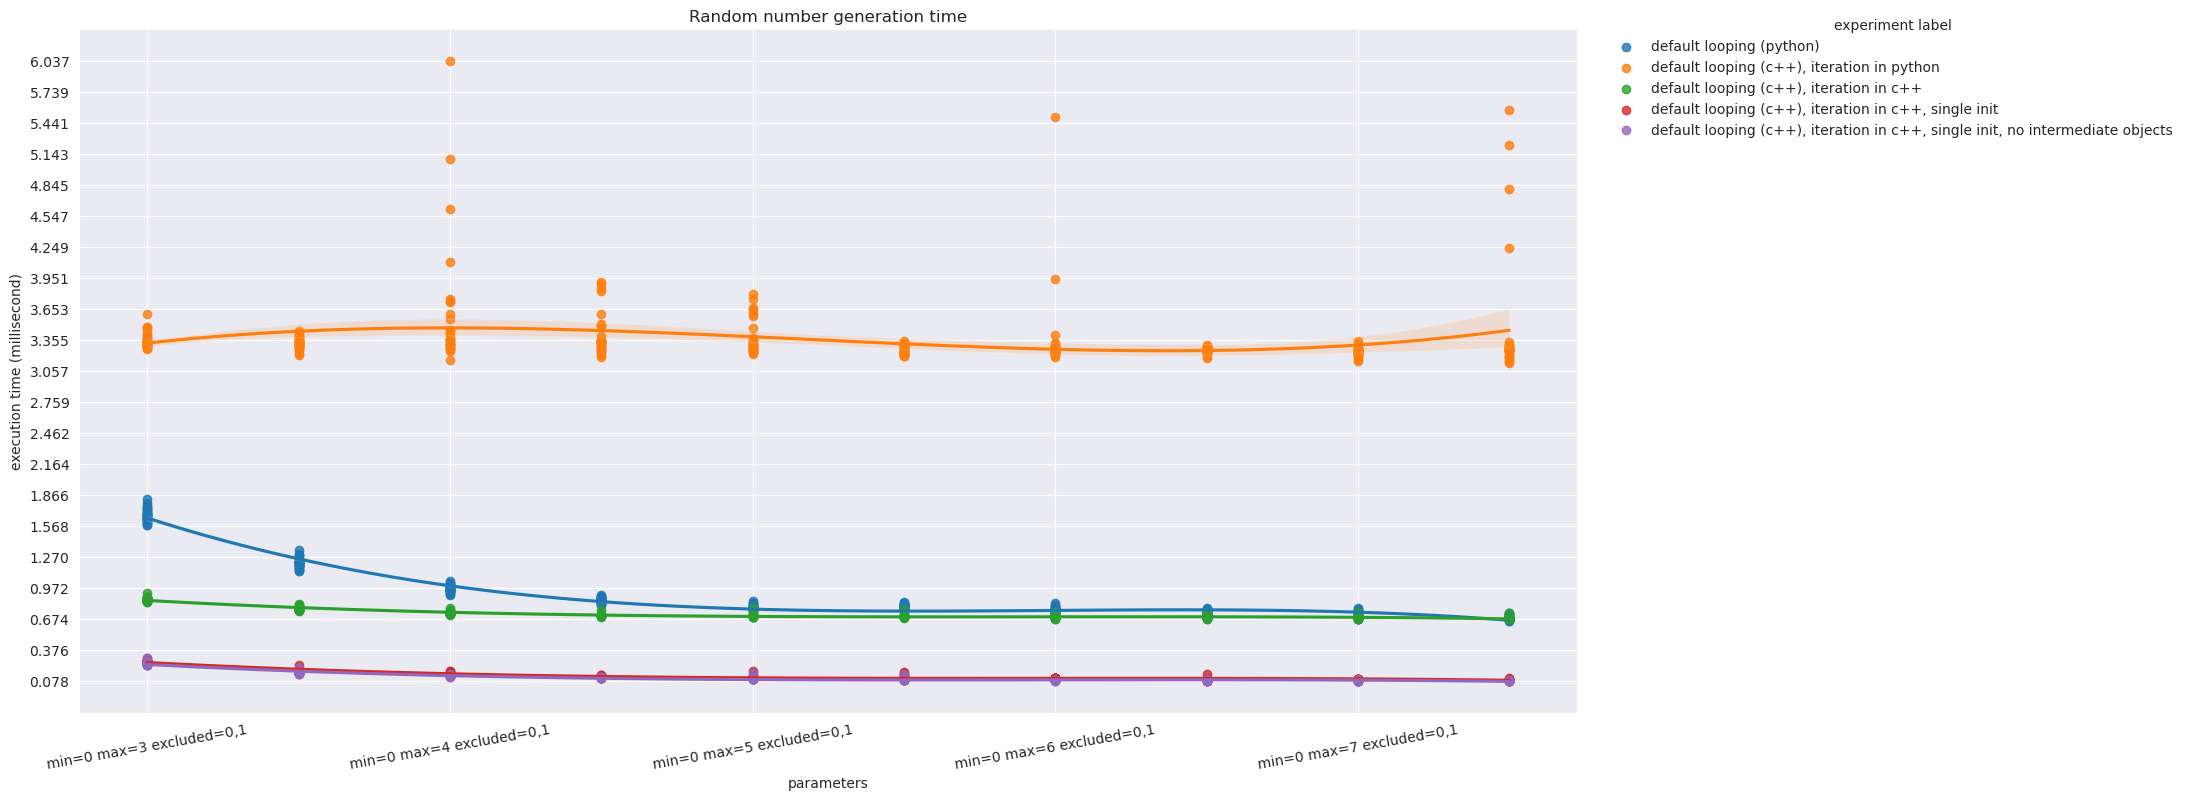
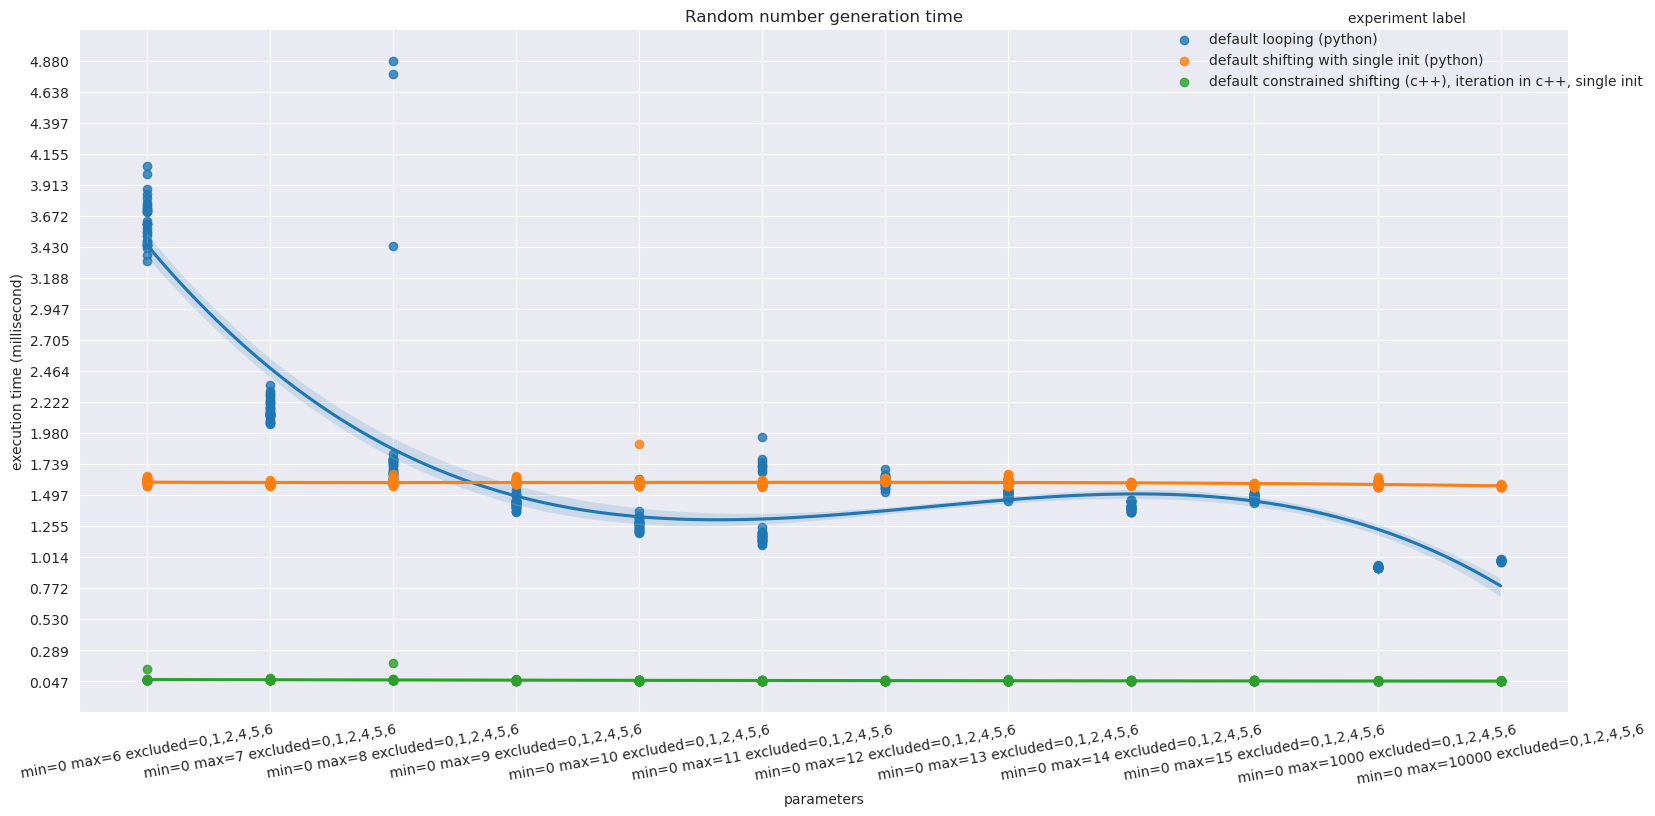
Added outliers detection and elimination, implemented p-value evaluation

diff --git a/errand/__main__.py b/errand/__main__.py
@@ -1,6 +1,7 @@
 import os
 import time
 from enum import Enum
+import scipy.stats
 
 from random import randint
 from typing import Tuple
@@ -38,7 +39,7 @@ def main():
 @option('--cpp', '-c', type = bool, is_flag = True)
 def randomize(seed: int, cpp: bool):
 
-    grid = ParameterGrid.from_range((0, ), (2, 3, 4, 5, 6, 7, 8, 9, 10, 1000), ((0, 2), ))
+    grid = ParameterGrid.from_range((0, ), (6, 7, 8, 9, 10, 11, 12, 13, 14, 15, 1000, 10000), ((0, 1, 2, 4, 5, 6), ))
 
     # for parameter in grid.parameters:
     #     print(parameter)
@@ -104,16 +105,16 @@ def randomize(seed: int, cpp: bool):
                 # #     'default looping (c++), iteration in c++, multiple inits',
                 # #     RANDEER_LIBRARY_PATH, SamplingMethod.LOOPING, SamplingApproach.DEFAULT, IterationMethod.CPP, single_init = False, using_objects = True
                 # # ),
+                RandeerExperiment(
+                    default_looping := 'default looping (c++), iteration in c++, single init, no intermediate objects',
+                    RANDEER_LIBRARY_PATH, SamplingMethod.LOOPING, SamplingApproach.DEFAULT, IterationMethod.CPP, single_init = True, using_objects = False
+                ),
                 # RandeerExperiment(
-                #     'default looping (c++), iteration in c++, single init, no intermediate objects',
-                #     RANDEER_LIBRARY_PATH, SamplingMethod.LOOPING, SamplingApproach.DEFAULT, IterationMethod.CPP, single_init = True, using_objects = False
+                #     'default shifting (c++), iteration in c++, single init',
+                #     RANDEER_LIBRARY_PATH, SamplingMethod.SHIFTING, SamplingApproach.DEFAULT, IterationMethod.CPP, single_init = True, using_objects = True
                 # ),
                 RandeerExperiment(
-                    'default shifting (c++), iteration in c++, single init',
-                    RANDEER_LIBRARY_PATH, SamplingMethod.SHIFTING, SamplingApproach.DEFAULT, IterationMethod.CPP, single_init = True, using_objects = True
-                ),
-                RandeerExperiment(
-                    'default constrained shifting (c++), iteration in c++, single init',
+                    default_shifting := 'default constrained shifting (c++), iteration in c++, single init',
                     RANDEER_LIBRARY_PATH, SamplingMethod.CONSTRAINED_SHIFTING, SamplingApproach.DEFAULT, IterationMethod.CPP, single_init = True, using_objects = True
                 ),
                 # RandeerExperiment(
@@ -128,16 +129,20 @@ def randomize(seed: int, cpp: bool):
         evaluator = Evaluator(
             experiments = (
                 PythonExperiment(
-                    'default looping (python)',
+                    default_looping := 'default looping (python)',
                     SamplingMethod.LOOPING, SamplingApproach.DEFAULT
                 ),
+                # PythonExperiment(
+                #     'default shifting (python)',
+                #     SamplingMethod.SHIFTING, SamplingApproach.DEFAULT
+                # ),
                 PythonExperiment(
-                    'default shifting (python)',
-                    SamplingMethod.SHIFTING, SamplingApproach.DEFAULT
-                ),
-                PythonExperiment(
-                    'default shifting with single init (python)',
+                    default_shifting := 'default shifting with single init (python)',
                     SamplingMethod.SHIFTING, SamplingApproach.DEFAULT, single_init = True
+                ),
+                RandeerExperiment(
+                    default_shifting_cpp := 'default constrained shifting (c++), iteration in c++, single init',
+                    RANDEER_LIBRARY_PATH, SamplingMethod.CONSTRAINED_SHIFTING, SamplingApproach.DEFAULT, IterationMethod.CPP, single_init = True, using_objects = True
                 ),
                 # RandeerExperiment(
                 #     'default looping (c++), iteration in python',
@@ -167,6 +172,23 @@ def randomize(seed: int, cpp: bool):
 
     # evaluator.evaluate(n = 100000, min_ = 10, max_ = 20, excluded = (11, 12))
     df, plot = evaluator.evaluate(n = 1000, grid = grid, unit = Unit.MILLISECOND)
+
+    numerator = df[(default_looping, 'mean')].sub(df[(default_shifting, 'mean')])
+    denominator = df[(default_looping, 'std')].pow(2).divide(df[(default_looping, 'sample size')]).add(
+        df[(default_shifting, 'std')].pow(2).divide(df[(default_shifting, 'sample size')])
+    ).pow(0.5)
+
+    df['t-score'] = numerator.divide(denominator)
+
+    # df.apply(lambda x: print(x.loc[[default_looping]]), axis = 1)
+    df['p-value'] = p_value = df.apply(lambda x: scipy.stats.t.sf(abs(x.at['t-score'].iloc[0]), df = int(x.loc[[[default_looping, 'sample size']]].iloc[0]) - 1) * 2, axis = 1)
+    # print(p_values)
+
+    df['is significant'] = p_value.le(0.05)
+
+    shifting_mul = df[(default_shifting, 'mean')].divide(df[(default_shifting_cpp, 'mean')])
+
+    print(shifting_mul.mean(), shifting_mul.std())
 
     print(df)
 

diff --git a/errand/Evaluator.py b/errand/Evaluator.py
@@ -10,6 +10,21 @@ from .ParameterGrid import ParameterGrid
 from .Unit import Unit
 
 
+def reject_outliers(data, m = 2.):
+    d = np.abs(data - np.median(data))
+    mdev = np.median(d)
+    s = d / mdev if mdev else np.zero(len(d))
+    return data[s < m]
+
+
+def drop_outliers(x, y, z):
+    y_median = np.median(y)
+
+    for x_element, y_element, z_element in zip(x, y, z):
+        if np.abs(y_element - y_median) / y_median < 20:
+            yield x_element, y_element, z_element
+
+
 class Evaluator:
     def __init__(self, experiments: Tuple[Experiment], n_repetitions: int = 1, seeds: Tuple[int] = None):
         self.experiments = experiments
@@ -18,6 +33,17 @@ class Evaluator:
 
     def visualize(self, x: Tuple[int], y: Tuple[float], label: Tuple[str], unit: Unit, xlabels: Tuple[str]):
         sns.set_style('darkgrid')
+
+        x, y, label = zip(*drop_outliers(x, y, label))
+
+        # y_median = np.median(y)
+
+        # for x_element, y_element in zip(x, y):
+        #     if np.abs(y_element - y_median) / y_median < 2:
+        #         yield x_element, y_element
+        # dd
+
+        # print(len(x), len(y), len(label))
 
         plot = sns.lmplot(DataFrame({'x': x, 'y': y, 'experiment label': label}), x = 'x', y = 'y', hue = 'experiment label', order = 3, ci = 95)
 
@@ -57,11 +83,13 @@ class Evaluator:
             means = []
             stds = []
             results = []
+            sample_sizes = []
             # x = []
             for parameter in grid:
                 result = experiment.run(n, parameter.min_, parameter.max_, parameter.excluded, self.n_repetitions, self.seeds, unit)
                 means.append(np.mean(result))
                 stds.append(np.std(result))
+                sample_sizes.append(len([x for items in result for x in items]))  # first level of nesting is seed, the second level of nesting is for number of experiments per seed
                 results.append(result)
                 for _ in range(self.n_repetitions if self.seeds is None else len(self.seeds) * self.n_repetitions):
                     x.append(parameter.id)
@@ -76,6 +104,9 @@ class Evaluator:
 
             column_names.append((experiment.label, 'std'))
             data.append(stds)
+
+            column_names.append((experiment.label, 'sample size'))
+            data.append(sample_sizes)
 
             y.extend(n_value := np.reshape(np.array(results), (-1, )).tolist())
             label.extend([experiment.label for _ in range(len(n_value))])
